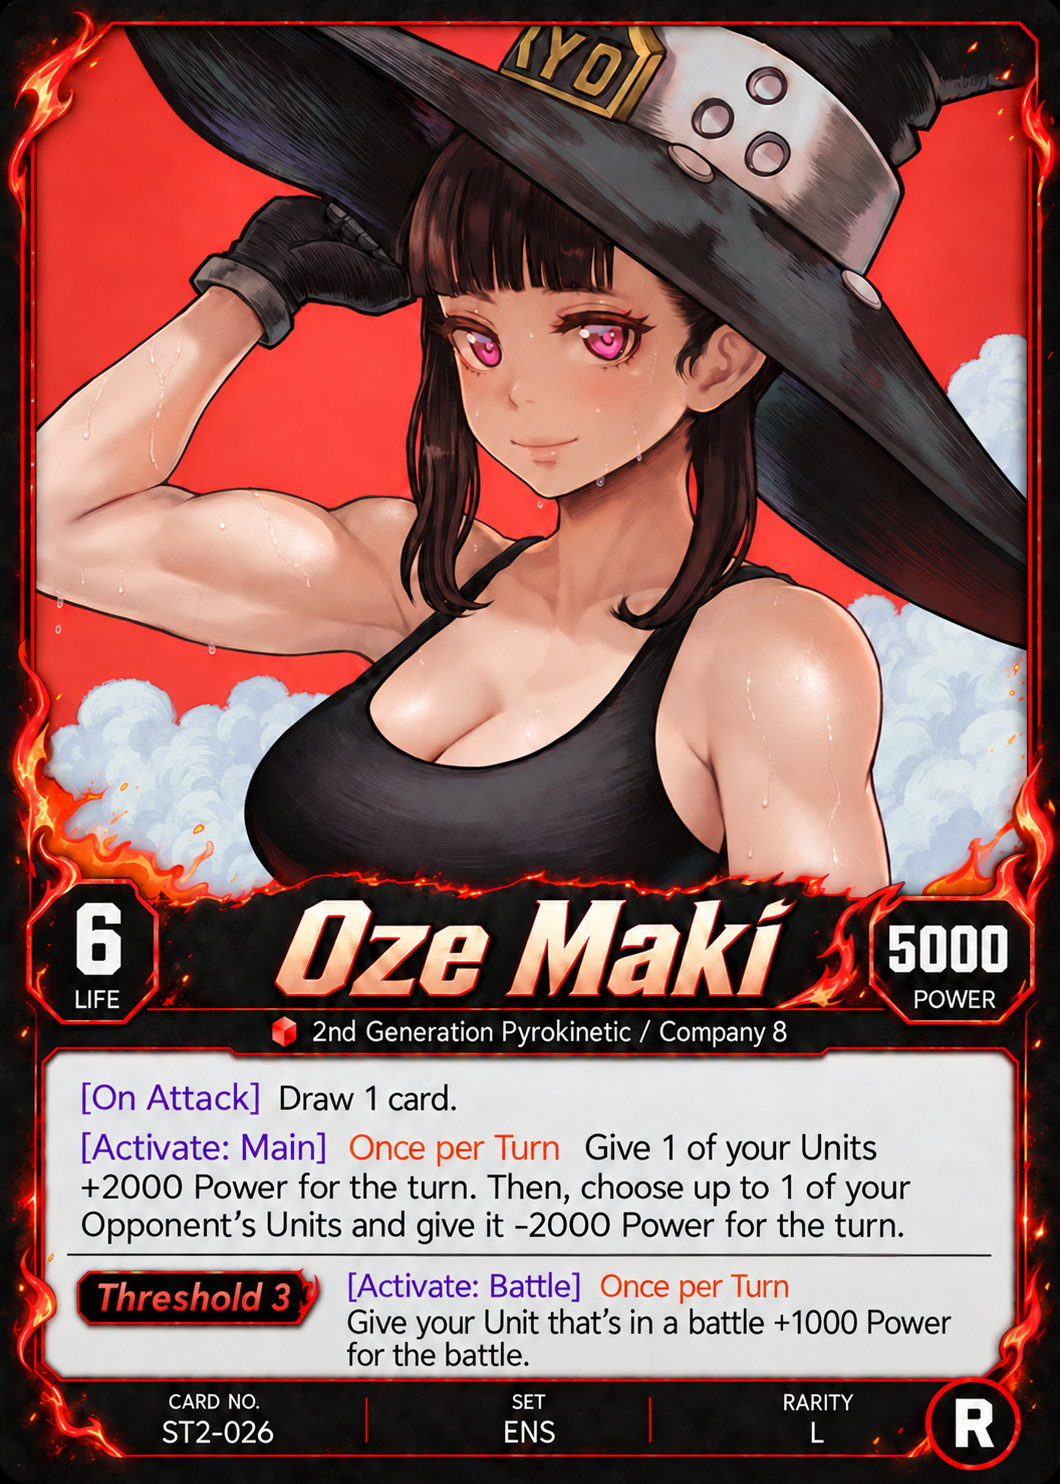
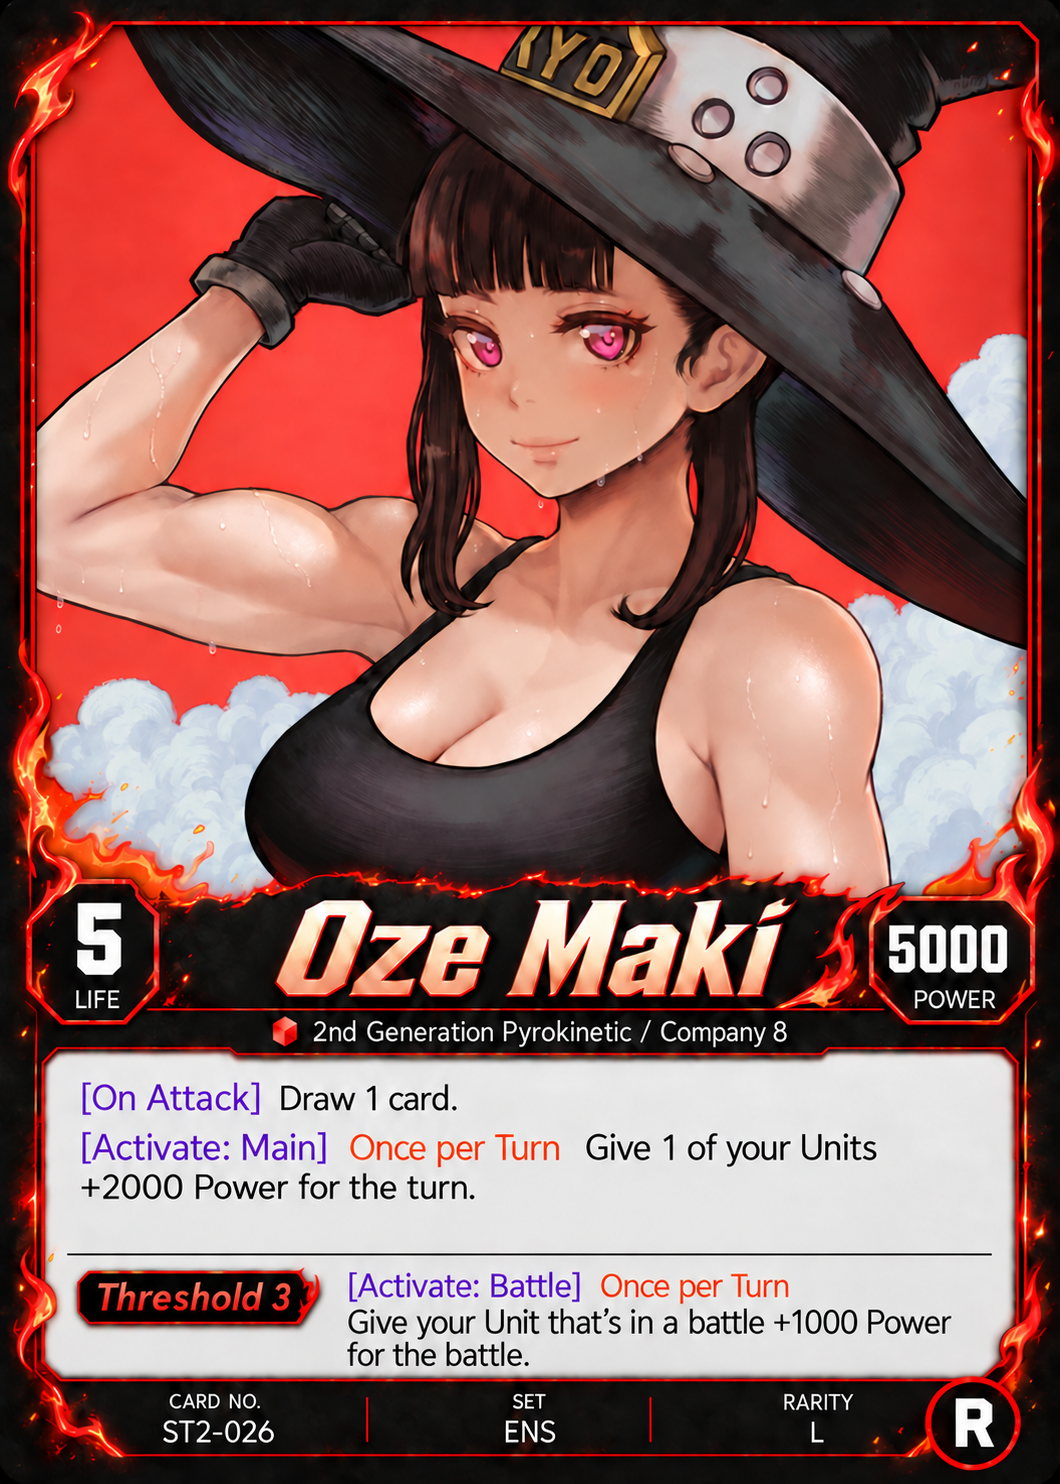
Update Maki Leader life and remove opposing Power reduction

diff --git a/card-text-data.js b/card-text-data.js
@@ -3501,15 +3501,15 @@ window.SJTCG_CARD_TEXT = {
     "color": "Red",
     "cost": "",
     "sj_cost": "",
-    "life": "6",
+    "life": "5",
     "power": "5000",
     "counter": "",
     "traits": "2nd Generation Pyrokinetic / Company 8",
     "set": "ENS",
     "rarity": "L",
     "bottom_right_circle": "R",
-    "effect": "[On Attack] Draw 1 card.\n[Activate: Main] Once per Turn Give 1 of your Units +2000 Power for the turn. Then, choose up to 1 of your Opponent's Units and give it -2000 Power for the turn.\nThreshold 3 [Activate: Battle] Once per Turn Give your Unit that's in a battle +1000 Power for the battle.",
-    "effect_html": "<span class=\"kw kw-purple\" title=\"Timing window\">[On Attack]</span> Draw 1 card.<br><span class=\"kw kw-purple\" title=\"Timing window\">[Activate: Main]</span> <span class=\"kw kw-orange\" title=\"Once per Turn\">Once per Turn</span> Give 1 of your Units +2000 Power for the turn. Then, choose up to 1 of your Opponent&#x27;s Units and give it -2000 Power for the turn.<br><span class=\"kw kw-orange\" title=\"Threshold X\">Threshold 3</span> <span class=\"kw kw-purple\" title=\"Timing window\">[Activate: Battle]</span> <span class=\"kw kw-orange\" title=\"Once per Turn\">Once per Turn</span> Give your Unit that&#x27;s in a battle +1000 Power for the battle.",
+    "effect": "[On Attack] Draw 1 card.\n[Activate: Main] Once per Turn Give 1 of your Units +2000 Power for the turn.\nThreshold 3 [Activate: Battle] Once per Turn Give your Unit that's in a battle +1000 Power for the battle.",
+    "effect_html": "<span class=\"kw kw-purple\" title=\"Timing window\">[On Attack]</span> Draw 1 card.<br><span class=\"kw kw-purple\" title=\"Timing window\">[Activate: Main]</span> <span class=\"kw kw-orange\" title=\"Once per Turn\">Once per Turn</span> Give 1 of your Units +2000 Power for the turn.<br><span class=\"kw kw-orange\" title=\"Threshold X\">Threshold 3</span> <span class=\"kw kw-purple\" title=\"Timing window\">[Activate: Battle]</span> <span class=\"kw kw-orange\" title=\"Once per Turn\">Once per Turn</span> Give your Unit that&#x27;s in a battle +1000 Power for the battle.",
     "notes": "",
     "transcription_status": "verified",
     "release": "ST2",

diff --git a/cards-data.js b/cards-data.js
@@ -1890,13 +1890,13 @@ window.SJTCG_CARD_DATA = [
     "cardType": "Leader",
     "deckLimit": 1,
     "orientation": "Portrait",
-    "imageVersion": "e1df4c5b0eae",
+    "imageVersion": "7051a5ae3f51",
     "altImages": [
       {
         "label": "ST7 Leader Reprint — Alt Art",
         "image": "images/ST2-026-alt1.jpg",
         "release": "ST7",
-        "imageVersion": "b4a9c7c8022f"
+        "imageVersion": "859e2e8f247b"
       }
     ]
   },

diff --git a/index.html b/index.html
@@ -214,8 +214,8 @@
     </section>
   </div>
 
-  <script src="cards-data.js?v=d938a5c29ffb"></script>
-  <script src="card-text-data.js?v=990d78bd156b"></script>
+  <script src="cards-data.js?v=7368d3ce708f"></script>
+  <script src="card-text-data.js?v=53561e4e916f"></script>
   <script src="app.js?v=20261009-reprint-search-2"></script>
 </body>
 </html>
